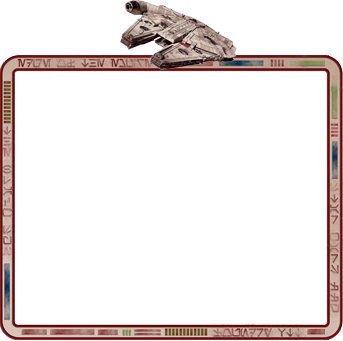
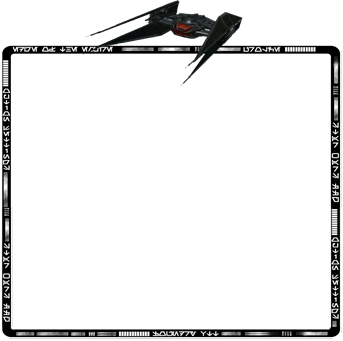
Black Empire
Add Kylo Ren Vessel
Add window borders Auberesh

Changed region(s): [[0.0, 0.0, 1.0, 0.9971]]

diff --git a/blackEmpire/css/swffg.css b/blackEmpire/css/swffg.css
@@ -301,7 +301,7 @@ select:focus {
 .window-app .window-content {
 	font-family: var(--major-button-font-family), sans-serif;
 	font-size: var(--major-button-font-size) !important;
-	background: #00000099 !important;
+	background: #000000e3 !important;
 	color:white;
     border: 3px solid #b7b7b7;
 }
@@ -324,6 +324,268 @@ select:focus {
 #tinymce .mce-content-body body{
     color: white !important;
 }
+
+/* ================== 2. CONFIGURE SETTINGS ================= */
+    #client-settings {
+      border: 1px solid blue;
+      border-width: 10px;
+      border-image: url(../ui/game-settings-border.png) 5 repeat;
+      border-image-slice: 160 80 66 85;
+      border-image-width: 163px 81px 67px 80px;
+	  /*border-image-slice: 190 110 85 110;*/
+      border-image-outset: 0px;
+      background: none;
+      height: 850px !important;
+      width: 850px !important;
+      box-shadow: none !important;
+	  min-height: 500px !important;
+    }
+    #client-settings .window-header {
+      border: none;
+      min-height: 145px;
+      background: none;
+      justify-content: flex-end;
+      position: relative;
+      /* top: 38px; */
+	  margin: 0px;
+    }
+	
+	#client-settings .window-header a {
+		flex: none;
+		margin: 0 0 0 8px;
+		position: relative;
+		top: 58px;
+		left: -60px;
+	}
+	
+      #client-settings .window-header h4 {
+        display: none;
+      }
+      #client-settings .window-header .close {
+        position: relative;
+        top: 58px;
+		left:-60px;
+      }
+    #client-settings .window-content {
+    margin: 0px 53px 24px 48px;
+    padding: 0px;
+    border: none;
+    background: url(../ui/game-settings-background.png);
+    background-size: 199%;
+    background-position-x: center;
+	border-radius: 6px;
+    opacity: 0.95;
+    }
+      #client-settings .window-content form {
+        padding: 6px;
+        margin: 0px 0px 0px 0px;
+        border: none;
+        background: none;
+        /* box-shadow: inset 0px 0px 4px black; */
+        overflow-y: hidden;
+      }
+      #client-settings section.content {
+        border-top: none;
+        overflow: scroll;
+        overflow-x: auto;
+        /* max-height: 450px; */
+        margin-top: 15px;
+        margin-bottom: 15px;
+      }
+      #client-settings section.content .settings-list {
+        max-height: calc(100vh - 150px);
+        overflow-y: unset;
+        padding-right: 0.5em;
+      }
+      #client-settings .window-content form .form-group {
+        flex: 2;
+        line-height: 24px;
+        border: 1px solid #736953a6;
+        /* box-shadow: 0px 0px 10px inset black; */
+        background: #fff68640;
+        border-radius: 0px;
+        opacity: 0.9;
+        min-width: 93px;
+        color: #efefef;
+        padding: 6px;
+        margin: 8px 0px;
+        font-family: KuiperBelt;
+        font-weight: 500;
+        font-size: 16px;
+		border-radius: 5px;
+      }
+   /*   #client-settings .form-group input {
+        border-left: 1px solid #736953a6;
+      }
+      #client-settings .form-group input[type="checkbox"] {
+      top: 0px;
+      margin-top: 8px;
+      margin-right: 5px;
+      }
+      #client-settings .window-content form .form-group > label {
+        flex: 2;
+        line-height: normal;
+        padding: 6px 0px 0px 0px;
+        font-size: 16px;
+        color: #ffffff;
+        border: none;
+        text-align: left;
+        background: none;
+      }
+      #client-settings .window-content form h2 {
+        width: 100%;
+        margin: 0px;
+        padding: 0px;
+        color: #ccc6c6;
+        font-family: KuiperBelt;
+        font-size: 24px;
+        font-weight: 500;
+        text-shadow: 1px 1px 5px #000000;
+        text-align: center;
+        border: 3px double #736953a6;
+        background: #63000091;
+        box-shadow: inset 0px 0px 5px black;
+		border-radius: 8px;
+      }
+      #client-settings .window-content form .form-group select {
+        height: 25px;
+        max-width: 340px;
+        background: #6b4500;
+        color: #ffffff;
+        border: 1px solid #736953a6;
+        box-shadow: 0px 0px 10px inset black;
+        border-radius: 4px;
+        padding: 3px 0px 0px 0px;
+        text-overflow: ellipsis;
+        font-family: KuiperBelt;
+        font-weight: 500;
+        font-size: 14px;
+      }
+      #client-settings .window-content form .hint {
+        flex: 0 0 100%;
+        font-size: 14px;
+        color: #a09c88;
+        margin: 3px 0 0;
+        padding: 0px 0px;
+        border: none;
+        background: none;
+        line-height: initial;
+      }
+      #client-settings .window-content button {
+        flex: 2;
+        margin: 0px 4px 0px 4px;
+        padding: 3px 0px 3px 0px;
+        line-height: normal;
+        border: 3px double #736953a6;
+        box-shadow: 0px 0px 10px inset black;
+        border-radius: 0px;
+        opacity: 0.9;
+        text-align: center;
+        min-width: 95px;
+        color: #66141a;
+        font-family: KuiperBelt;
+        font-weight: 500;
+        font-size: 19px;
+        text-shadow: 0px 1px 1px #900000;
+	*/
+        /* border-image: url(../ui/footer-button.png) 10 repeat; */
+    /*    border-image-width: 4px;
+        border-image-outset: 0px;
+        background: url(../ui/sidebar_button-background.png) repeat;
+        background-origin: padding-box;
+		border-radius:8px;
+      }
+          #client-settings .window-content button i {
+            border: none;
+            background: none;
+            position: relative;
+            top: 2px;
+			color: #b9353f;
+			text-shadow: 0px 1px 0px #292929;
+			font-size: 16px;
+			border-radius:5px;
+          }
+          #client-settings .window-content button label {
+            border: none;
+            background: none;
+            position: relative;
+            top: 2px;
+			color: #66141a;
+          }
+		  #client-settings .window-content button:hover {
+			color: white;
+			cursor: var(--application-cursor-pointer);
+			background: url(../ui/sidebar_button-background_red.png) repeat !important;
+		}
+		 #client-settings .window-content button:hover > label {
+			color: white;
+			cursor: var(--application-cursor-pointer);
+		}
+		#client-settings .window-content button:hover > i {
+			color: white;
+			cursor: var(--application-cursor-pointer);
+		}
+        #client-settings .window-content button[name="permissions"] {
+          max-width: 68px;
+          min-width: 68px;
+          height: 28px;
+          padding: 0px 0px 0px 0px;
+          line-height: 23px;
+        }
+        #client-settings .window-content button[name="permissions"] label {
+          display: none;
+        }
+        #client-settings .window-content button[name="permissions"] i {
+          display: contents;
+          font-size: 16px;
+          color: #66141a;
+        }
+      #client-settings .window-content .far.fa-save {
+        display: none;
+      }
+
+      #client-settings input[type="checkbox"]:checked + label {
+        background: none;
+        border: 1px solid white;
+      }
+	 */
+
+/*************************************************************/
+/*=============== VI. PLAYERS LIST ==========================*/
+/*************************************************************/
+#players {
+    position: fixed;
+    bottom: 25px;
+    left: 10px;
+    width: 200px;
+    border-image: url(../ui/players-border.png) 21 repeat;
+    border-image-slice: 55 16 19 16;
+    border-image-width: 43px 9px 15px 13px;
+    border-image-outset: 41px 9px 9px 9px;
+    border-radius: 0px;
+    box-shadow: inset 0 0 10px #000000;
+    background: #0000009c;
+    font-family: KuiperBelt;
+    font-size: 16px;
+}
+
+#players ol .player-name.self {
+    color: #ffe254bf;
+}
+
+#players h3 .fas.fa-users {
+    margin-right: 10px;
+    display: none;
+  }
+#players ol .player-name {
+  /*overflow: hidden;
+  white-space: nowrap;
+  word-break: break-all;*/
+  padding-top: 1px;
+}
+/*************************************************************/
+/*************************************************************/
+
 /* ==================== XIV. STAR WARS FFG SPECIFIC ==================== */
 .starwarsffg .charname input {
     color: #white;
@@ -784,7 +1046,7 @@ select:focus {
     order: 2;
     color: white;
 }
-#players {
+/*#players {
     position: fixed;
     bottom: 12px;
     left: 15px;
@@ -793,7 +1055,7 @@ select:focus {
     padding: 0;
     border: 4px solid white;
     border-radius: 8px;
-}
+}*/
 
 #pause > h3
 {
